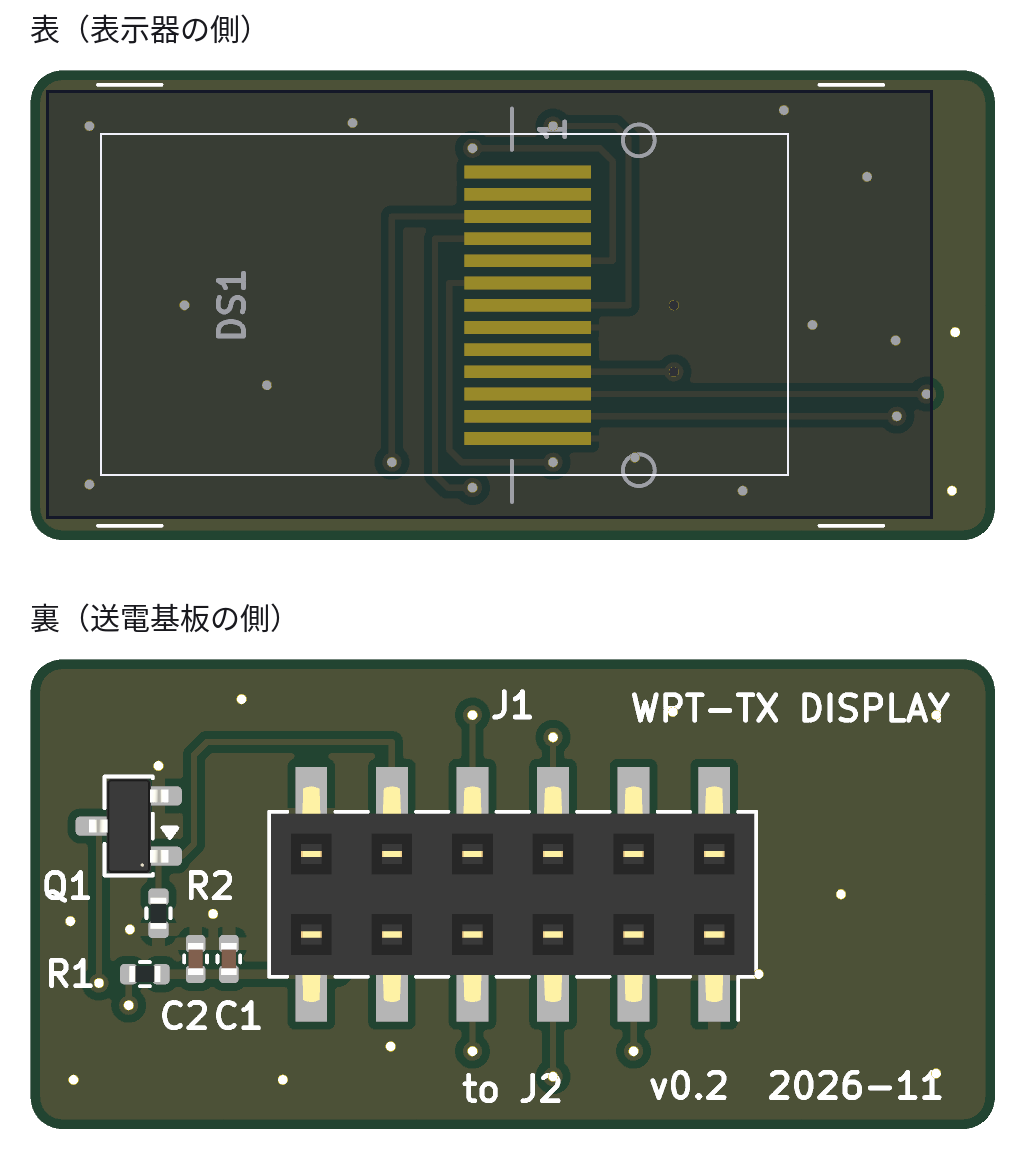
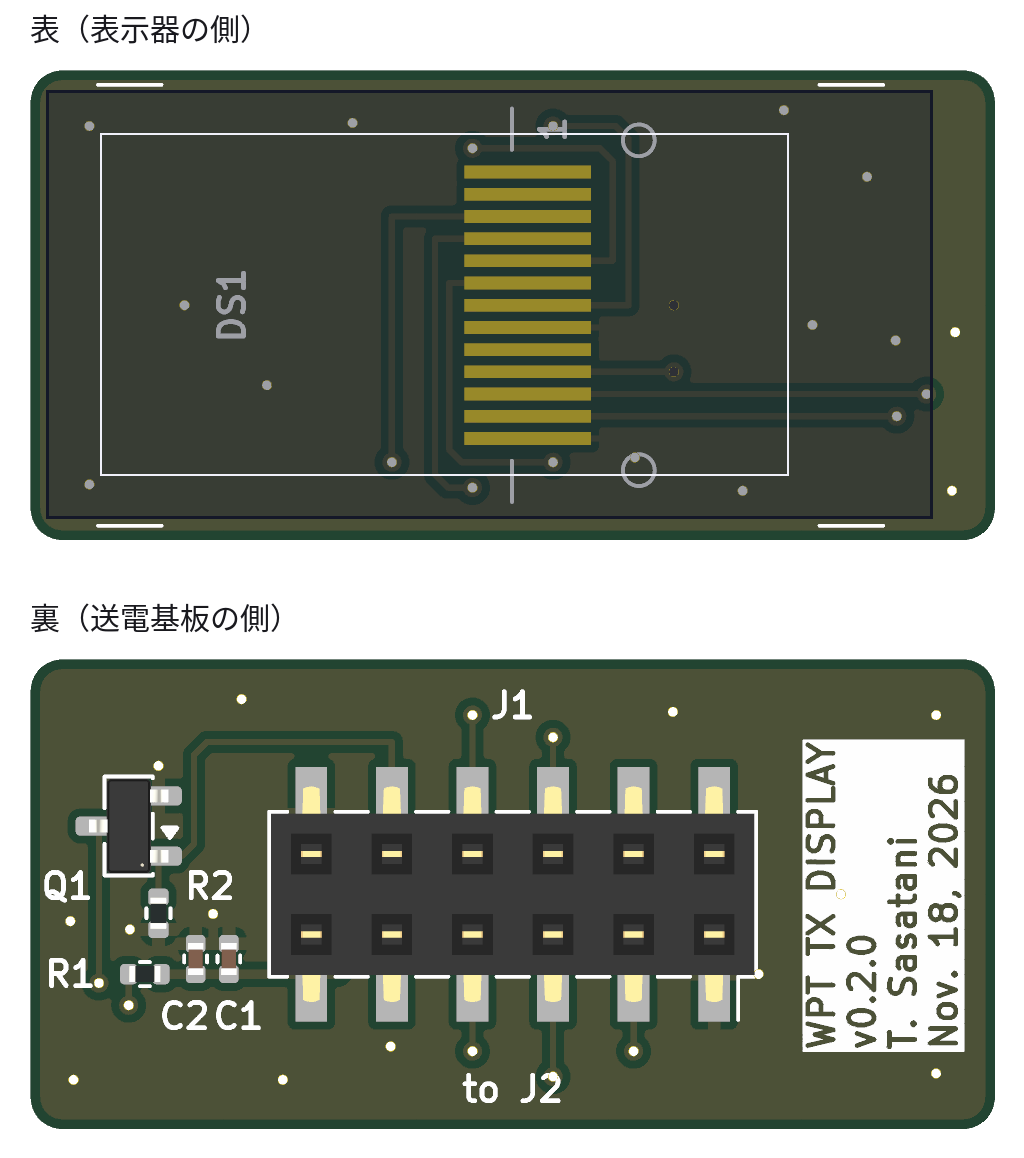
display board: title on the silkscreen in the form of the transmitter board (name and version, author, date; inverted, along the edge)
Silkscreen of the back side only: copper, mask, paste and drill files are unchanged. Release folder and the drawing of the board rebuilt.

Changed region(s): [[0.5938, 0.5907, 0.9688, 0.9637], [0.625, 0.9016, 0.7188, 0.9637]]

diff --git a/hardware/kicad/WPT-TX-DISPLAY/tools/make_board.py b/hardware/kicad/WPT-TX-DISPLAY/tools/make_board.py
@@ -36,6 +36,7 @@ P = lambda v: (round(v.x / MM, 4), round(v.y / MM, 4))
 STOCK = '/usr/share/kicad/footprints'
 LAYER = {'F.Cu': pcbnew.F_Cu, 'B.Cu': pcbnew.B_Cu, 'F.SilkS': pcbnew.F_SilkS, 'B.SilkS': pcbnew.B_SilkS}
 LOCAL = 'lib/footprints'
+TITLE_ROT = 270.0                                            # seen from the back: read from the bottom, as on the transmitter board
 
 
 # ------------------------------------------------------------------ netlist (kicad s-expression) -> components
@@ -198,7 +199,8 @@ def via(netname, c):
     b.Add(v)
 
 
-def text(s, x, y, layer='F.SilkS', size=0.8, rot=0.0, justify='center'):
+def text(s, x, y, layer='F.SilkS', size=0.8, rot=0.0, justify='center', knockout=False):
+    """(x, y): centre of the text, also for several lines (the lines themselves are aligned by `justify`)."""
     t = pcbnew.PCB_TEXT(b)
     t.SetText(s)
     t.SetLayer(LAYER[layer])
@@ -211,7 +213,12 @@ def text(s, x, y, layer='F.SilkS', size=0.8, rot=0.0, justify='center'):
         t.SetTextAngleDegrees(rot)
     if layer.startswith('B.'):
         t.SetMirrored(True)
+    t.SetIsKnockout(knockout)
+    if '\n' in s or justify != 'center':                      # the anchor is not the centre then: shift by what the box says
+        c = t.GetBoundingBox().Centre()
+        t.Move(pcbnew.VECTOR2I(int(round(x * MM)) - c.x, int(round(y * MM)) - c.y))
     b.Add(t)
+    return t
 
 
 # ------------------------------------------------------------------ geometry taken from the transmitter board and the parts
@@ -386,14 +393,21 @@ for layer in (pcbnew.F_Cu, pcbnew.B_Cu):
     b.Add(z)
 
 # ------------------------------------------------------------------ silkscreen (back: the side one sees when the board is unplugged)
-text('WPT-TX DISPLAY', 168.6, 129.3, 'B.SilkS')
-text('v0.2  2026-11', 168.4, 141.2, 'B.SilkS')
+# The title is that of the transmitter board ("WPT TX v0.2.0 / T. Sasatani / Nov. 18, 2026": inverted, along an edge,
+# read from the bottom, lines aligned at their start). The name is longer here and the board is 14.8 mm wide: four
+# lines of 0.8 mm instead of three of 1.0 mm, in the strip between the socket and the west edge.
+JW = J1.GetCourtyard(pcbnew.B_CrtYd).BBox().GetLeft() / MM
+tt = text('WPT TX DISPLAY\nv0.2.0\nT. Sasatani\nNov. 18, 2026', (W + JW) / 2, (N + S) / 2, 'B.SilkS', rot=TITLE_ROT, justify='left', knockout=True)
+bb = tt.GetBoundingBox()
+box = (bb.GetLeft() / MM, bb.GetTop() / MM, bb.GetRight() / MM, bb.GetBottom() / MM)
+assert box[0] > W + 0.5 and box[2] < JW - 0.5 and box[1] > N + 0.5 and box[3] < S - 0.5, (box, W, JW, N, S)
+print('title: x %.2f .. %.2f, y %.2f .. %.2f (strip x %.2f .. %.2f)' % (box[0], box[2], box[1], box[3], W, JW))
 text('to J2', JC[0], 141.3, 'B.SilkS')
 
 tb = b.GetTitleBlock()
 tb.SetTitle('WPT transmitter: display board (provisional)')
-tb.SetRevision('0.2')
-tb.SetDate('2026-11-17')
+tb.SetRevision('0.2.0')
+tb.SetDate('2026-11-18')
 tb.SetComment(0, 'Plugs onto J2 of WPT-01-TRANSMITTER, 9.9 mm above it. Coordinates are those of that board.')
 
 pcbnew.SaveBoard(out_path, b)

diff --git a/hardware/kicad/release/README.md b/hardware/kicad/release/README.md
@@ -1,11 +1,11 @@
-# 発注用の製造データ（送電基板 2026-11-18、表示基板 2026-11-17 出力）
+# 発注用の製造データ（送電基板、表示基板とも 2026-11-18 出力）
 
 `fab/out/` は git 管理外なので、発注にそのまま使える一式をここに置いてある。作り直すときは各プロジェクトで `sh fab/export.sh` を実行する（内容と PCBWay への指定は各 `fab/README.md`）。
 
 | 置き場所 | 中身 |
 |---|---|
 | `WPT-01-TRANSMITTER_rev8/` | 送電基板 改訂 8 + レビュー後の変更（基板のシルク表示は「WPT TX v0.2.0」）、HRTIM 構成。**PCBWay に渡すファイルだけ**を、渡す欄ごとに置いた（下の表） |
-| `WPT-TX-DISPLAY_v0.2/` | 表示基板 v0.2（仮設計）。同じ形: `gerber_WPT-TX-DISPLAY_v0.2.zip`（2 層のガーバーとドリルだけ）、`bom.csv`、`placement.csv`、図面の PDF 3 枚。表示器 DS1 は BOM で同梱扱い（実装させず、手ではんだ付けする） |
+| `WPT-TX-DISPLAY_v0.2/` | 表示基板 v0.2（仮設計、基板のシルク表示は「WPT TX DISPLAY v0.2.0」）。同じ形: `gerber_WPT-TX-DISPLAY_v0.2.zip`（2 層のガーバーとドリルだけ）、`bom.csv`、`placement.csv`、図面の PDF 3 枚。表示器 DS1 は BOM で同梱扱い（実装させず、手ではんだ付けする） |
 
 送電基板のファイルと、PCBWay の注文画面の欄:
 
